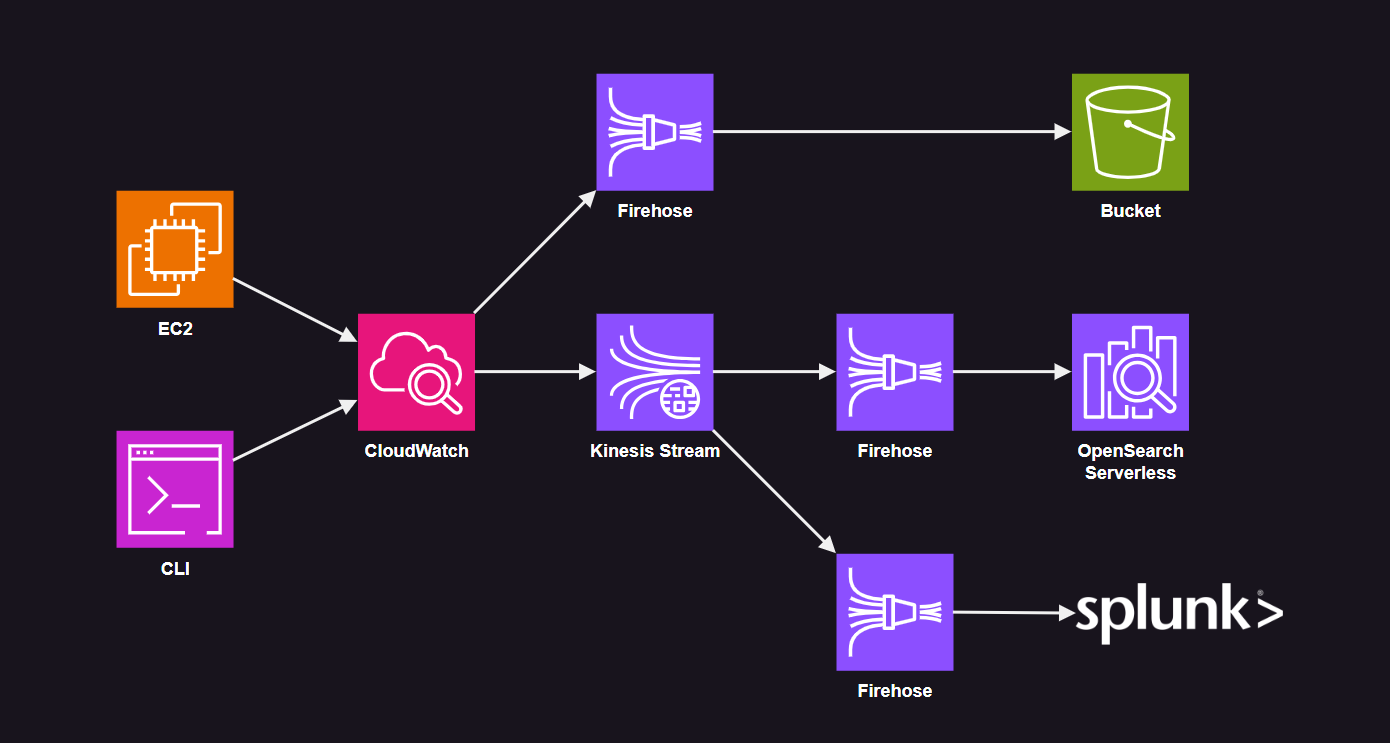
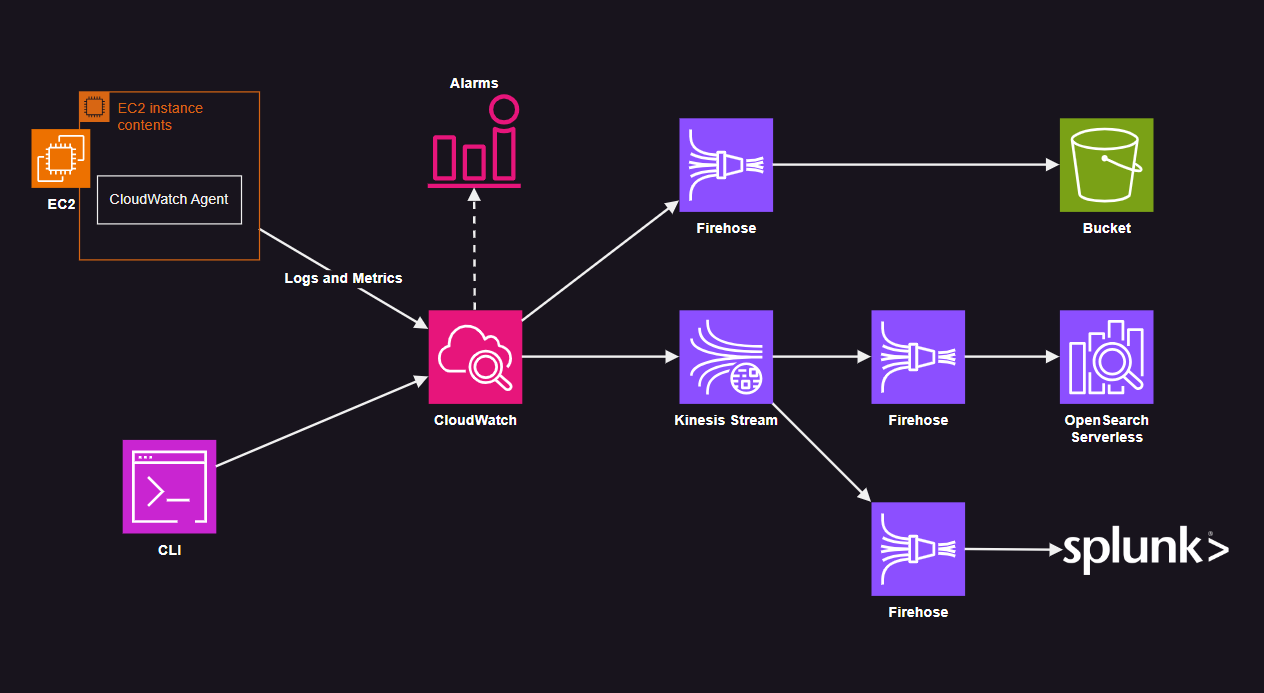
readme

diff --git a/README.md b/README.md
@@ -1,6 +1,8 @@
-# AWS CloudWatch Logs Subscriptions
+# AWS CloudWatch Logs, Metrics & Subscriptions
 
 CloudWatch Logs subscription filters with Kinesis and several destinations.
+
+The project also includes Guest OS metrics collection with alarms.
 
 <img src=".assets/cw-kinesis.png" width=800 />
 
@@ -9,6 +11,13 @@ Create the resources:
 ```sh
 terraform -chdir="aws" init
 terraform -chdir="aws" apply -auto-approve
+```
+
+Make sure that the agent has been installed:
+
+```sh
+cloud-init status
+systemctl status amazon-cloudwatch-agent
 ```
 
 To complete the OpenSearch Serverless setup, connect and create a public Access Policy via the [Console](https://us-east-2.console.aws.amazon.com/aos/home?region=us-east-2#opensearch/collections/prod-logs). (This seems not available via Terraform as of now)
@@ -42,28 +51,52 @@ subscription_filter_pattern = ""
 - Server-side encryption (SSE)
 - Destination error logs (CloudWatch)
 
-## Logging from EC2
+## Logging & Metrics from EC2
 
 The `amazon-cloudwatch-agent` package will be installed via user data.
 
-Log into the EC2 instance and configure the CloudWatch agent with the wizard:
+This will the default configuration with `Basic` predefined [metrics set][1] and the root `/` disk:
 
-```sh
-sudo /opt/aws/amazon-cloudwatch-agent/bin/amazon-cloudwatch-agent-config-wizard
-sudo /opt/aws/amazon-cloudwatch-agent/bin/amazon-cloudwatch-agent-ctl -a fetch-config -m ec2 -s -c file:/opt/aws/amazon-cloudwatch-agent/bin/config.json
+```json
+{
+  "agent": {
+    "metrics_collection_interval": 60,
+    "run_as_user": "root"
+  },
+  "metrics": {
+    "aggregation_dimensions": [
+      [
+        "InstanceId"
+      ]
+    ],
+    "append_dimensions": {
+      "AutoScalingGroupName": "${aws:AutoScalingGroupName}",
+      "ImageId": "${aws:ImageId}",
+      "InstanceId": "${aws:InstanceId}",
+      "InstanceType": "${aws:InstanceType}"
+    },
+    "metrics_collected": {
+      "disk": {
+        "measurement": [
+          "used_percent"
+        ],
+        "metrics_collection_interval": 60,
+        "resources": [
+          "/"
+        ]
+      },
+      "mem": {
+        "measurement": [
+          "mem_used_percent"
+        ],
+        "metrics_collection_interval": 60
+      }
+    }
+  }
+}
 ```
 
-```sh
-systemctl status amazon-cloudwatch-agent
-```
-
-Config:
-
-```
-https://docs.aws.amazon.com/AmazonCloudWatch/latest/monitoring/create-cloudwatch-agent-configuration-file-wizard.html
-https://docs.aws.amazon.com/AmazonCloudWatch/latest/monitoring/install-CloudWatch-Agent-on-EC2-Instance-fleet.html#start-CloudWatch-Agent-EC2-fleet
-```
-
+For other options, check on how to [install the agent][2].
 
 Download the Go app binary:
 
@@ -90,3 +123,6 @@ curl localhost:8080/err
 ```
 
 From the logging app root, build it: `./build.sh`
+
+[1]: https://docs.aws.amazon.com/AmazonCloudWatch/latest/monitoring/create-cloudwatch-agent-configuration-file-wizard.html
+[2]: https://docs.aws.amazon.com/AmazonCloudWatch/latest/monitoring/install-CloudWatch-Agent-on-EC2-Instance-fleet.html
